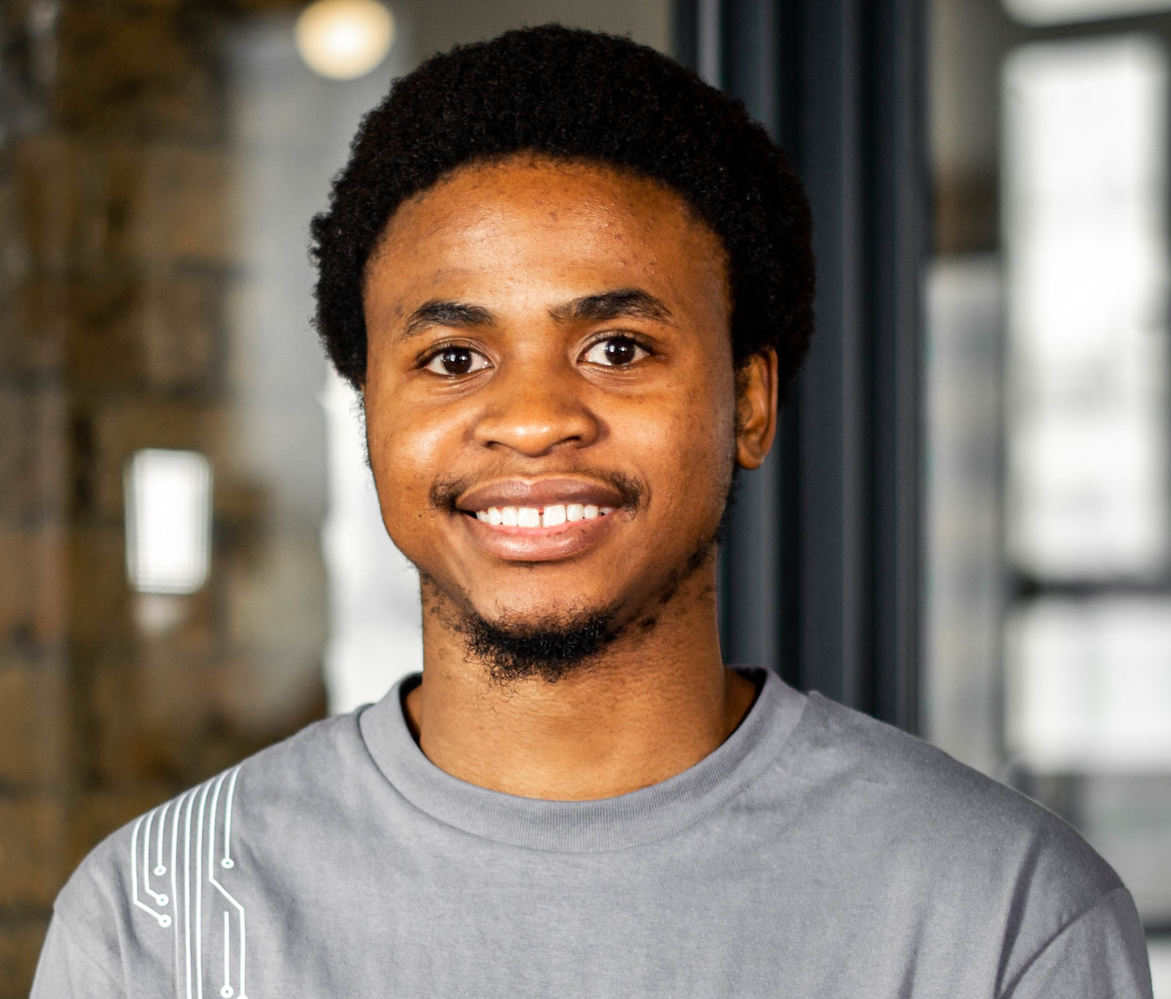
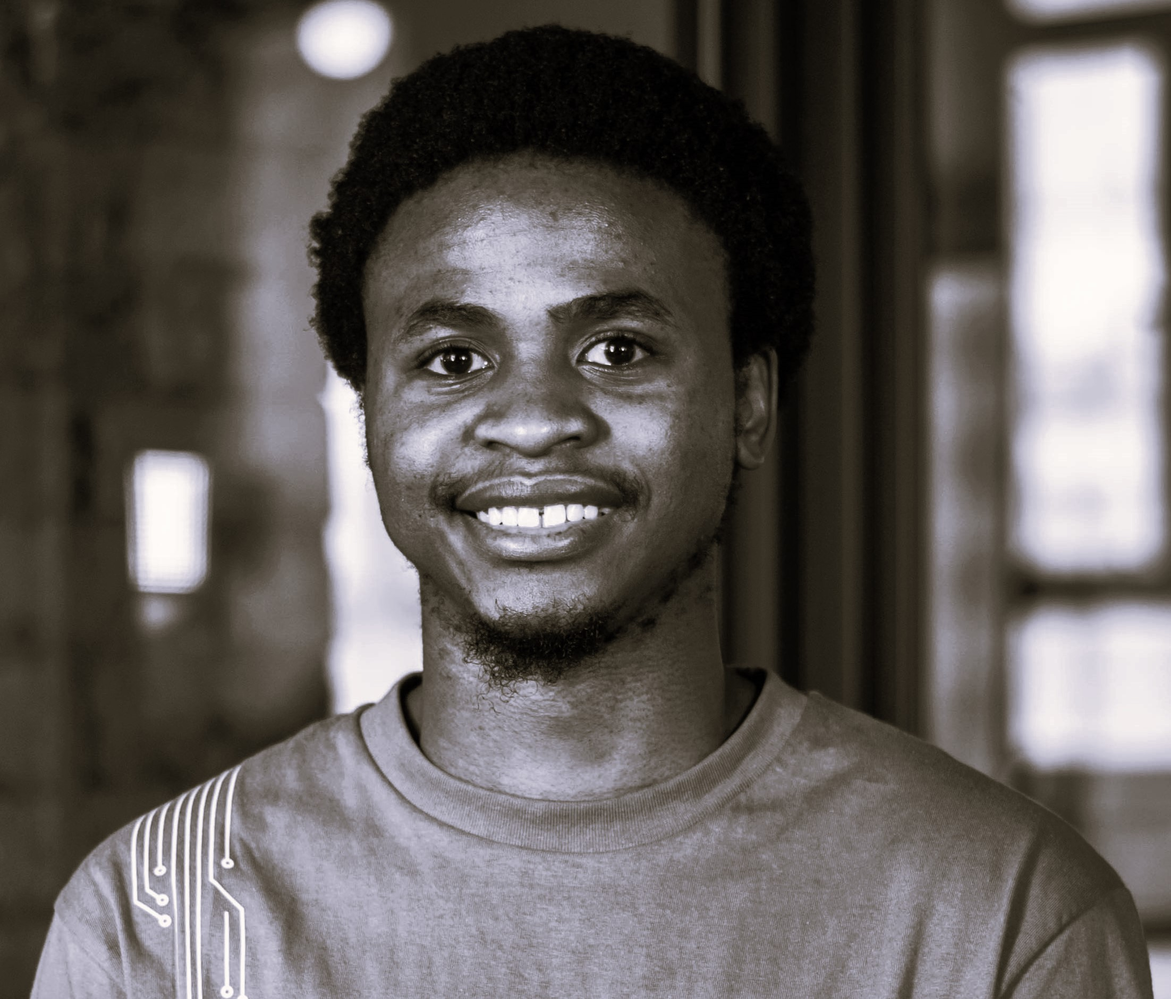
Home component elements positioning and animation for home image

diff --git a/src/components/home/home.css b/src/components/home/home.css
@@ -5,6 +5,58 @@
     align-items: center;
 }
 
+.home__social {
+    display: grid;
+    grid-template-columns: max-content;
+    row-gap: 1rem;
+}
+
+.home__social-icon {
+    font-size: 1.25rem;
+    color: var(--title-color);
+}
+
+.home__social-icon:hover {
+    color: var(--title-color-dark);
+}
+
+.home__title {
+    font-size: var(--big-font-size);
+    margin-bottom: var(--mb-0-75);
+}
+
+.home__hand {
+    width: 38px;
+    height: 38px;
+    margin-left: 0.4rem;
+}
+
+.home__subtitle {
+    position: relative;
+    font-size: var(--h3-font-size);
+    padding-left: 5.4rem;
+    font-weight: var(--font-normal);
+    margin-bottom: var(--mb-1);
+}
+
+.home__subtitle::before {
+    content: '';
+    position: absolute;
+    width: 70px;
+    height: 1px;
+    background-color: var(--text-color);
+    left: 0;
+    top: 1rem;
+}
+.home__description {
+    max-width: 400px;
+    margin-bottom: var(--mb-2);
+}
+
+
+
+
+
 .home__img {
     background: url(../../../assets/profile.jpg);
     background-repeat: no-repeat;
@@ -14,5 +66,24 @@
     order: 1;
     width: 300px;
     height: 300px;
+    animation: profile__animated 8s ease-in-out infinite 1s;
 
 }
+
+@keyframes profile__animated {
+    0% {
+        border-radius: 60% 40% 30% 70%/60% 30% 70% 40%;
+    }
+
+    50% {
+        border-radius: 30% 60% 70% 40%/50% 60% 30% 60%;
+    }
+
+    100% {
+        border-radius: 60% 40% 30% 70%/60% 30% 70% 40%;
+    }
+
+
+
+}
+

diff --git a/src/components/home/Data.jsx b/src/components/home/Data.jsx
@@ -64,7 +64,7 @@ const Data = () => {
             <svg
                   className="button__icon"
                   xmlns="http://www.w3.org/2000/svg"
-                  width="24"
+                  width="20"
                   height="24"
                   viewBox="0 0 24 24"
                   fill="none"

diff --git a/src/App.css b/src/App.css
@@ -21,7 +21,7 @@
     /* .5rem = 8px | 1rem = 16px */
     --body-font: "Poppins" ,sans-serif;
 
-    --big-font-size: 3.5rem;
+    --big-font-size: 3rem;
     --h1-font-size: 2.25rem;
     --h2-font-size: 1.5rem;
     --h3-font-size: 1.25rem;
